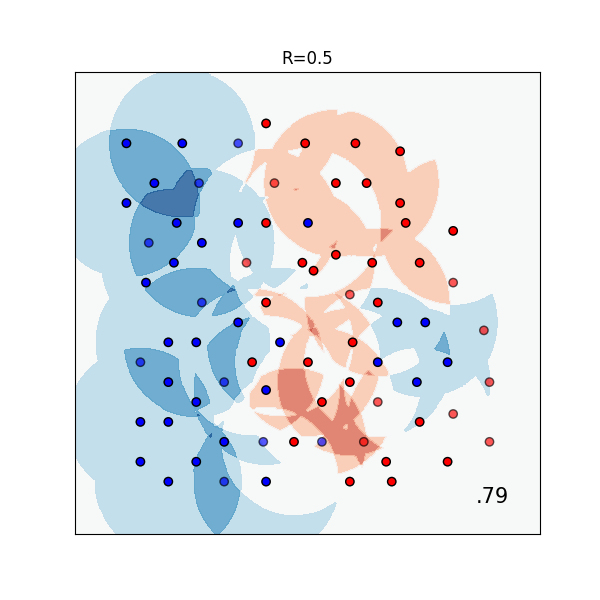
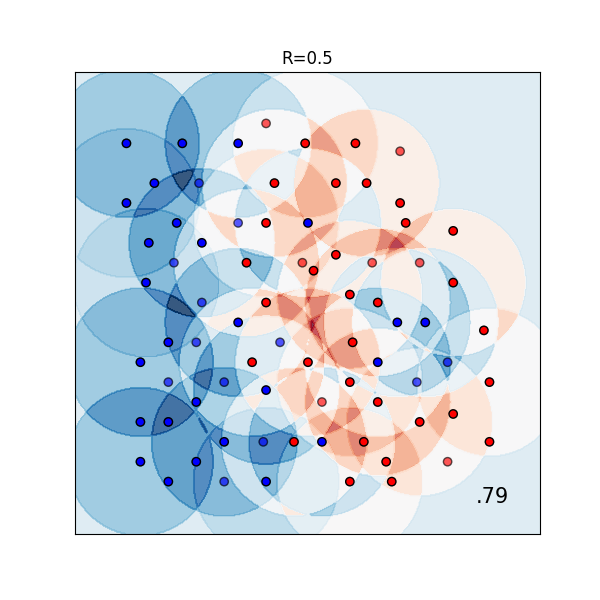
lab3 update

diff --git a/lab3/pum3-svm/main.py b/lab3/pum3-svm/main.py
@@ -45,7 +45,7 @@ def plot_decision_function(classifier, title):
 
     # Put the result into a color plot
     Z = Z.reshape(xx.shape)
-    plt.contourf(xx, yy, Z, cmap=cm, alpha=0.8)
+    plt.contourf(xx, yy, Z, cmap=cm, alpha=0.8, levels=200)
 
     # Plot the training points
     plt.scatter(X_train[:, 0], X_train[:, 1], c=y_train, cmap=cm_bright, edgecolors="k")
@@ -122,7 +122,7 @@ def rbf_kernel_classic():
 
 def rbf_kernel_angular():
     def kernel_fun(X, Y):
-        distance = np.sum((Y - X[:, np.newaxis]) ** 2, axis=-1)  # todo nie brakuje pierwiastka???
+        distance = np.sum((Y - X[:, np.newaxis]) ** 2, axis=-1)
         R_matrix = np.zeros(shape=distance.shape)
         R_matrix.fill(R)
         comparing_matrix = np.less(distance, R_matrix)
@@ -137,7 +137,7 @@ def rbf_kernel_angular():
 
 def rbf_kernel_linear():
     def kernel_fun(X, Y):
-        distance = np.sum((Y - X[:, np.newaxis]) ** 2, axis=-1)  # todo nie brakuje pierwiastka???
+        distance = np.sum((Y - X[:, np.newaxis]) ** 2, axis=-1)
         R_matrix = np.zeros(shape=distance.shape)
         R_matrix.fill(R)
         comparing_matrix = np.subtract(R, distance)
@@ -200,7 +200,7 @@ if __name__ == "__main__":
     # step 2
     # linear svm version
     print("Linear versions for range 0.01 - 10000...")
-    linear_svm(10_000)  # todo: wykresy są do kitu
+    linear_svm(10_000)
 
     # custom kernel version
     print("Custom kernel...")
@@ -212,7 +212,7 @@ if __name__ == "__main__":
 
     # angular RBF
     print("RBF kernel angular...")
-    rbf_kernel_angular()  # todo: no patrząc po wykresach raczej jest źle
+    rbf_kernel_angular()
 
     # linear RBF function
     print("Linear RBF...")
